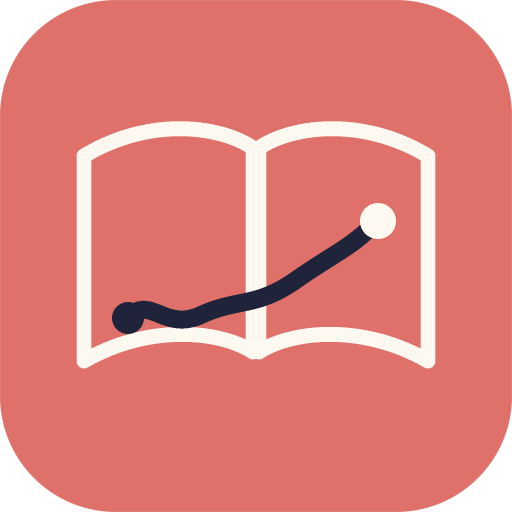
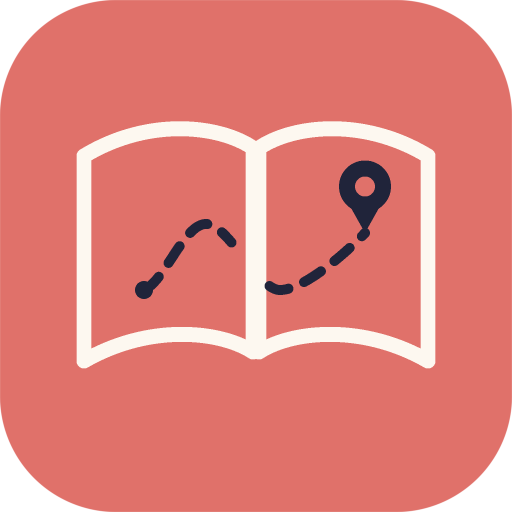
אייקון חדש: מסלול מקווקו שמסתיים בנקודת ציון
המסלול עולה לפסגה, יורד לגיא ומטפס אל סיכת הציון, ונקטע
בשדרת הספר כדי שלא ייגע באף קו מתאר. הקו דק יותר (20 במקום 36)
והנקודה שבסוף הוחלפה בסיכה קטנה.

- public/icon.svg — העיצוב החדש
- apple-touch-icon.png ו-icon-192/512 — הופקו מחדש
- Logo.tsx — הלוגו באפליקציה מתאים לאייקון

Changed region(s): [[0.2188, 0.3125, 0.7812, 0.6562]]

diff --git a/src/components/Logo.tsx b/src/components/Logo.tsx
@@ -9,8 +9,8 @@ const WORD = { sm: '1.15rem', md: '1.4rem', lg: '2.1rem' }
 
 /**
  * Logo is NEVER plain text: the real TripTales app mark (a coral rounded square
- * holding a cream open book crossed by a dark route line) next to the
- * "TripTales" wordmark in Assistant 800.
+ * holding a cream open book, crossed by a dashed route that rises, dips and
+ * lands on a waypoint pin) next to the "TripTales" wordmark in Assistant 800.
  *
  * The geometry below is the SAME artwork as `public/icon.svg`, kept in its
  * native 1024 viewBox and scaled down to the mark size — so the logo and the
@@ -37,16 +37,26 @@ export function BrandMark({ size = 42 }: { size?: number }) {
         {/* right page */}
         <path d="M856 312 C724 232 582 252 518 296 L518 704 C582 662 724 646 856 722 Z" />
       </g>
-      {/* route line */}
-      <path
-        d="M256 636 C300 588 328 664 402 630 C476 596 512 616 592 560 C660 512 700 496 744 452"
+      {/* the route: rises, dips, then climbs to the pin — broken at the spine
+          so it never touches the book's outlines */}
+      <g
         fill="none"
         stroke="#20243a"
-        strokeWidth="36"
+        strokeWidth="20"
         strokeLinecap="round"
+        strokeDasharray="40 34"
+      >
+        <path d="M288 580 C330 562 368 448 412 448 C428 448 445 464 463 485" />
+        <path d="M539 572 C546 577 553 580 560 580 C606 580 690 508 730 466" />
+      </g>
+      {/* start point */}
+      <circle cx="288" cy="580" r="18" fill="#20243a" />
+      {/* waypoint pin */}
+      <path
+        d="M730 466 c -29 -41 -52 -64 -52 -93 a 52 52 0 1 1 104 0 c 0 29 -23 52 -52 93 z"
+        fill="#20243a"
       />
-      <circle cx="256" cy="636" r="32" fill="#20243a" />
-      <circle cx="756" cy="442" r="36" fill="#fdf8f0" />
+      <circle cx="730" cy="373" r="20" fill="#e0716a" />
     </svg>
   )
 }